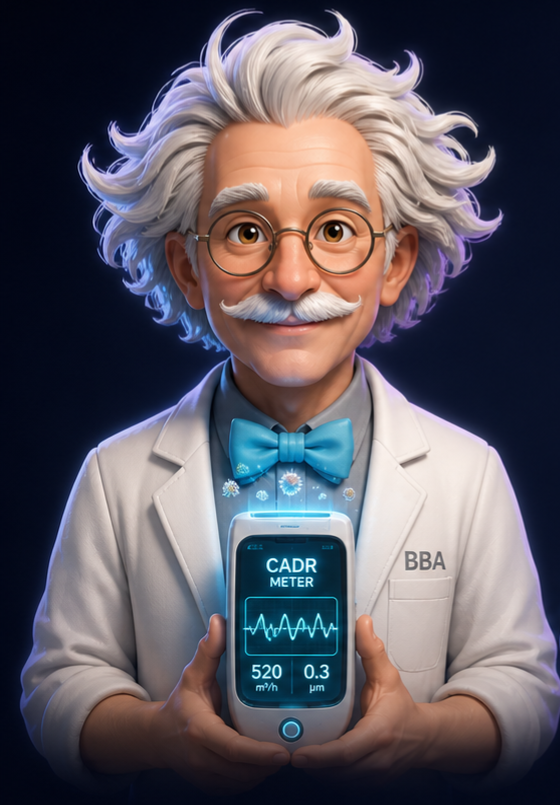
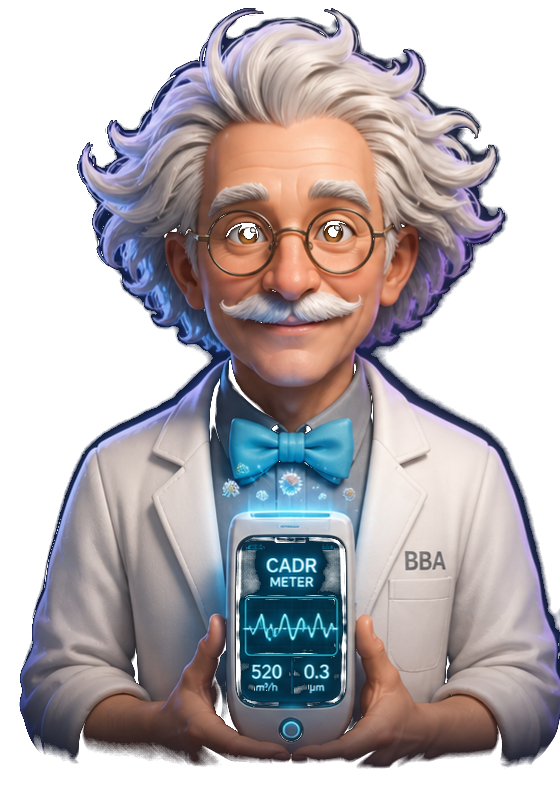
fix: make mascot images genuinely transparent and add cache-busting

diff --git a/chatbot.js b/chatbot.js
@@ -43,15 +43,15 @@
     chatContainer.id = 'chat-container';
     chatContainer.innerHTML = `
       <div id="bba-mascot" class="mascot-container" aria-label="Open Chat Assistant" role="button" tabindex="0">
-        <img src="images/mascot-icon.png" class="mascot-pose pose-icon is-active" alt="Dr. Breathewell">
-        <img src="images/mascot-header.png" class="mascot-pose pose-header" alt="Dr. Breathewell">
-        <img src="images/mascot-thinking.png" class="mascot-pose pose-thinking" alt="Dr. Breathewell">
+        <img src="images/mascot-icon.png?v=2" class="mascot-pose pose-icon is-active" alt="Dr. Breathewell">
+        <img src="images/mascot-header.png?v=2" class="mascot-pose pose-header" alt="Dr. Breathewell">
+        <img src="images/mascot-thinking.png?v=2" class="mascot-pose pose-thinking" alt="Dr. Breathewell">
         <div class="mascot-bubble">Need help sizing a purifier?</div>
       </div>
       <div class="chat-panel" role="dialog" aria-label="Chat Assistant">
         <header class="chat-header">
           <div class="chat-header__title" style="display: flex; align-items: center; gap: 12px;">
-            <div style="width: 48px; height: 48px; border-radius: 50%; background-image: url('images/mascot-header.png'); background-size: cover; background-position: center top; background-repeat: no-repeat; border: 2px solid var(--chat-primary); flex-shrink: 0;"></div>
+            <div style="width: 48px; height: 48px; border-radius: 50%; background-image: url('images/mascot-header.png?v=2'); background-size: cover; background-position: center top; background-repeat: no-repeat; border: 2px solid var(--chat-primary); flex-shrink: 0;"></div>
             <div style="display: flex; flex-direction: column; line-height: 1.2;">
               <span style="font-size: 1.1rem; font-weight: 600;">Dr. Breathewell</span>
               <span style="font-size: 0.8rem; color: var(--chat-text-dim); font-family: 'Inter', sans-serif;">Air Quality Specialist</span>

diff --git a/chatbot.css b/chatbot.css
@@ -256,7 +256,7 @@
 }
 
 .bot-avatar {
-  background-image: url('images/mascot-icon.png');
+  background-image: url('images/mascot-icon.png?v=2');
   background-size: cover;
   background-position: center top;
   background-repeat: no-repeat;
@@ -267,7 +267,7 @@
   width: 36px;
   height: 36px;
   left: -44px;
-  background-image: url('images/mascot-thinking.png');
+  background-image: url('images/mascot-thinking.png?v=2');
   background-size: cover;
   background-position: center top;
   background-repeat: no-repeat;
